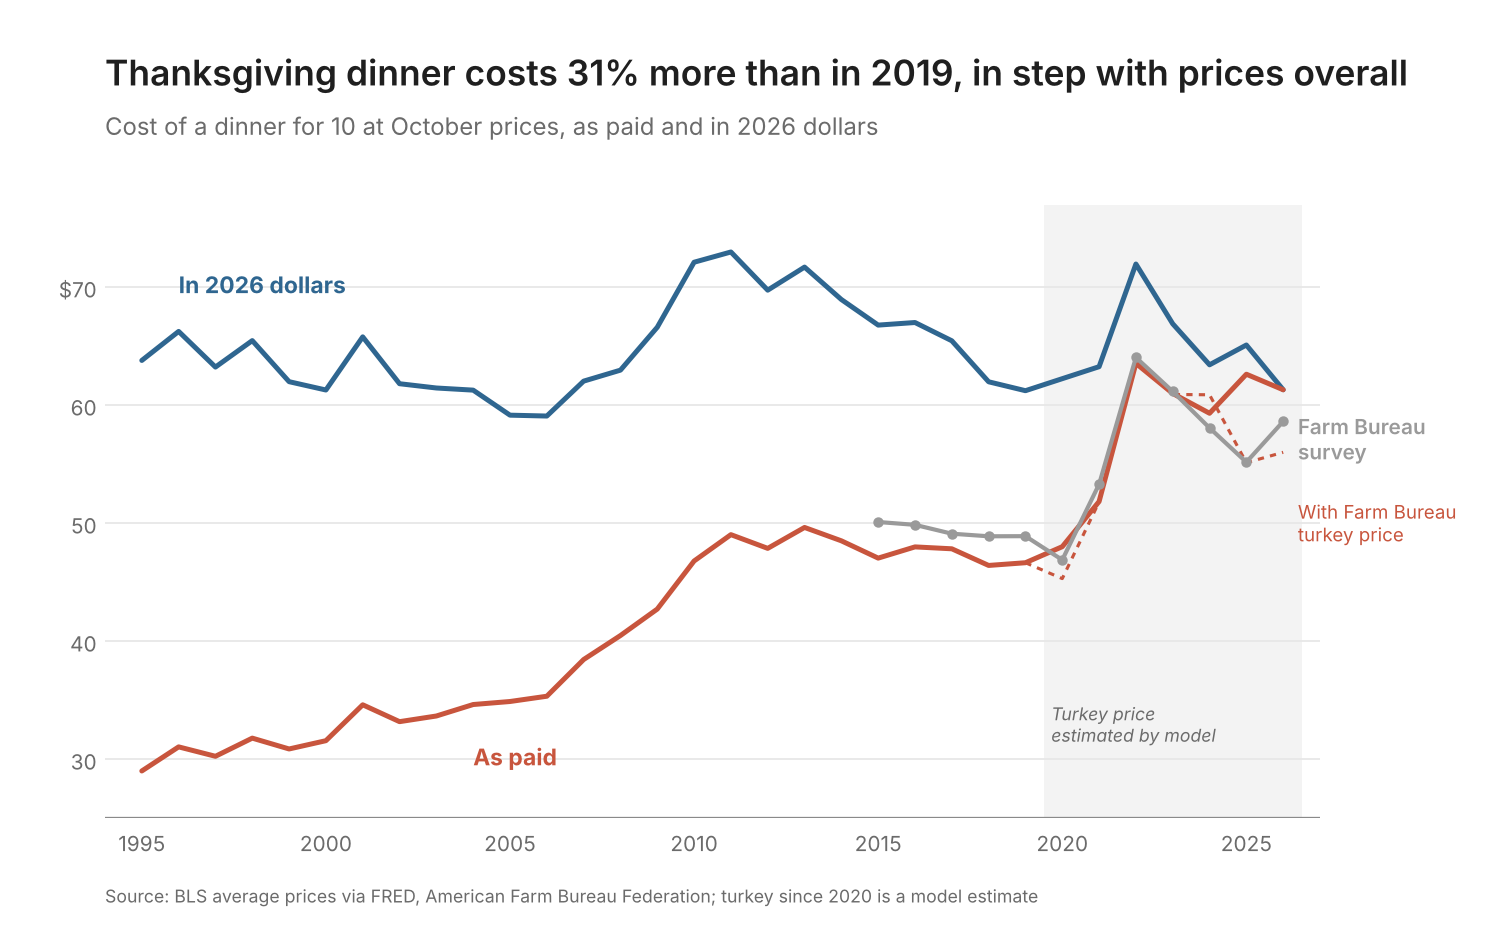
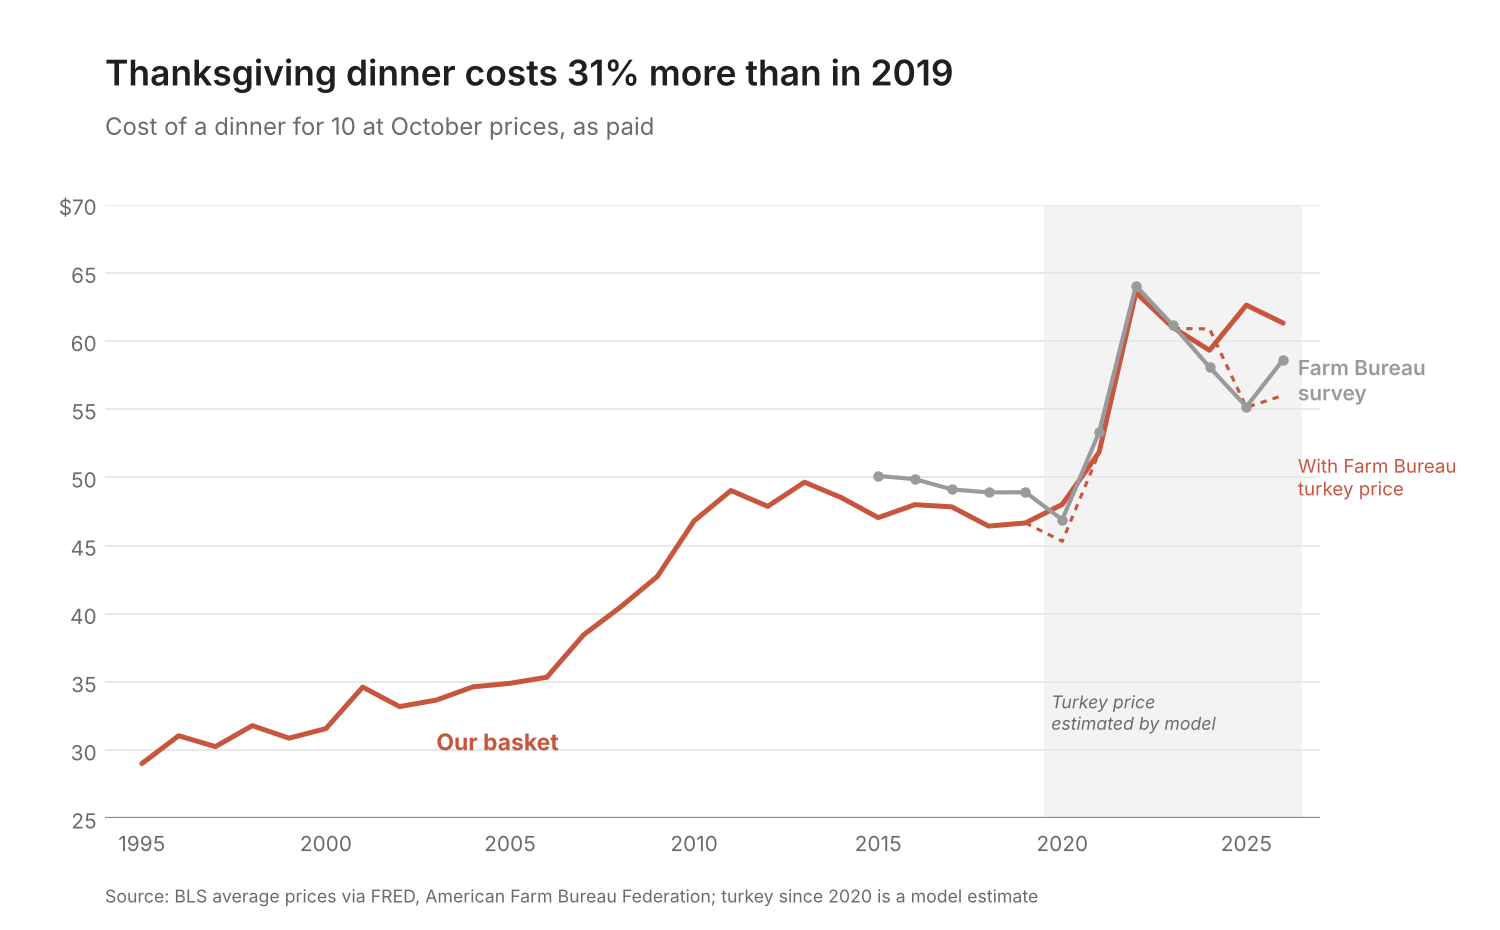
Show only prices paid in the dinner cost chart
Drops the 2026-dollars line, which put two different measures on one
axis and read like an affordability measure. Comparison with overall
prices remains in the price index chart.

Claude-Session: https://claude.ai/code/session_015UrztArHpAPPRd1ooHHwA1

diff --git a/build_index.py b/build_index.py
@@ -162,24 +162,22 @@ import chart_style as cs
 
 SRC_BLS = "BLS average prices via FRED, American Farm Bureau Federation"
 
-# 1. Nominal cost and cost relative to overall prices, with the Farm Bureau benchmark
+# 1. Cost as paid, with the Farm Bureau benchmark (comparison with overall prices is chart 2)
 fig, ax = cs.figure()
 ax.axvspan(2019.5, latest + 0.5, color=cs.SHADE, zorder=0, lw=0)
 ax.text(2019.7, 31.5, "Turkey price\nestimated by model", fontsize=8.5, color=cs.MUTED, style="italic")
-ax.plot(real_total.index, real_total, color=cs.BLUE)
 ax.plot(total.index, total, color=cs.RED)
 ax.plot(total_afbf.loc[2019:].index, total_afbf.loc[2019:], color=cs.RED, lw=1.5, ls=(0, (2, 2)))
 ax.plot(afbf.index, afbf, color=cs.GRAY, lw=2, marker="o", ms=4)
 ax.set_xlim(1994, latest + 1)
-ax.set_ylim(25, 77)
+ax.set_ylim(25, 70)
 cs.baseline(ax, 25)
-ax.text(1996, 69.5, f"In {latest} dollars", color=cs.BLUE, fontsize=11, fontweight="bold")
-ax.text(2004, 29.5, "As paid", color=cs.RED, fontsize=11, fontweight="bold")
+ax.text(2003, 30, "Our basket", color=cs.RED, fontsize=11, fontweight="bold")
 cs.label_end(ax, latest, total_afbf[latest], "With Farm Bureau\nturkey price", cs.RED, dy=-6, weight="normal", size=9)
 cs.label_end(ax, latest, afbf[latest], "Farm Bureau\nsurvey", cs.GRAY, dy=-1.5)
 cs.unit_on_top(ax, prefix="$")
-cs.finish(fig, "Thanksgiving dinner costs 31% more than in 2019, in step with prices overall",
-          "Cost of a dinner for 10 at October prices, as paid and in 2026 dollars",
+cs.finish(fig, "Thanksgiving dinner costs 31% more than in 2019",
+          "Cost of a dinner for 10 at October prices, as paid",
           SRC_BLS + "; turkey since 2020 is a model estimate", OUT / "1_dinner_cost.png")
 
 # 2. Indexes
